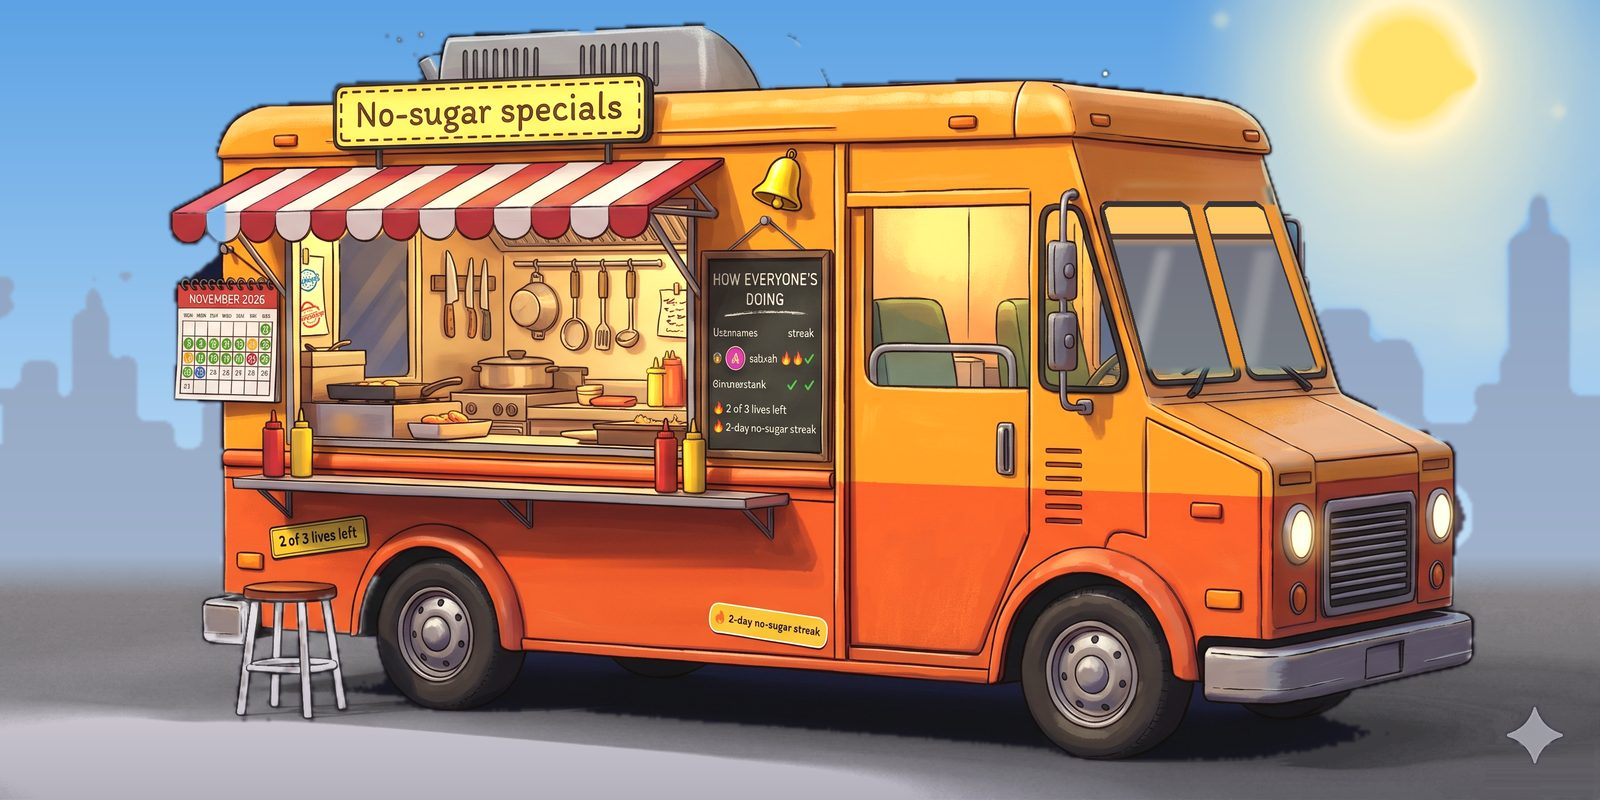
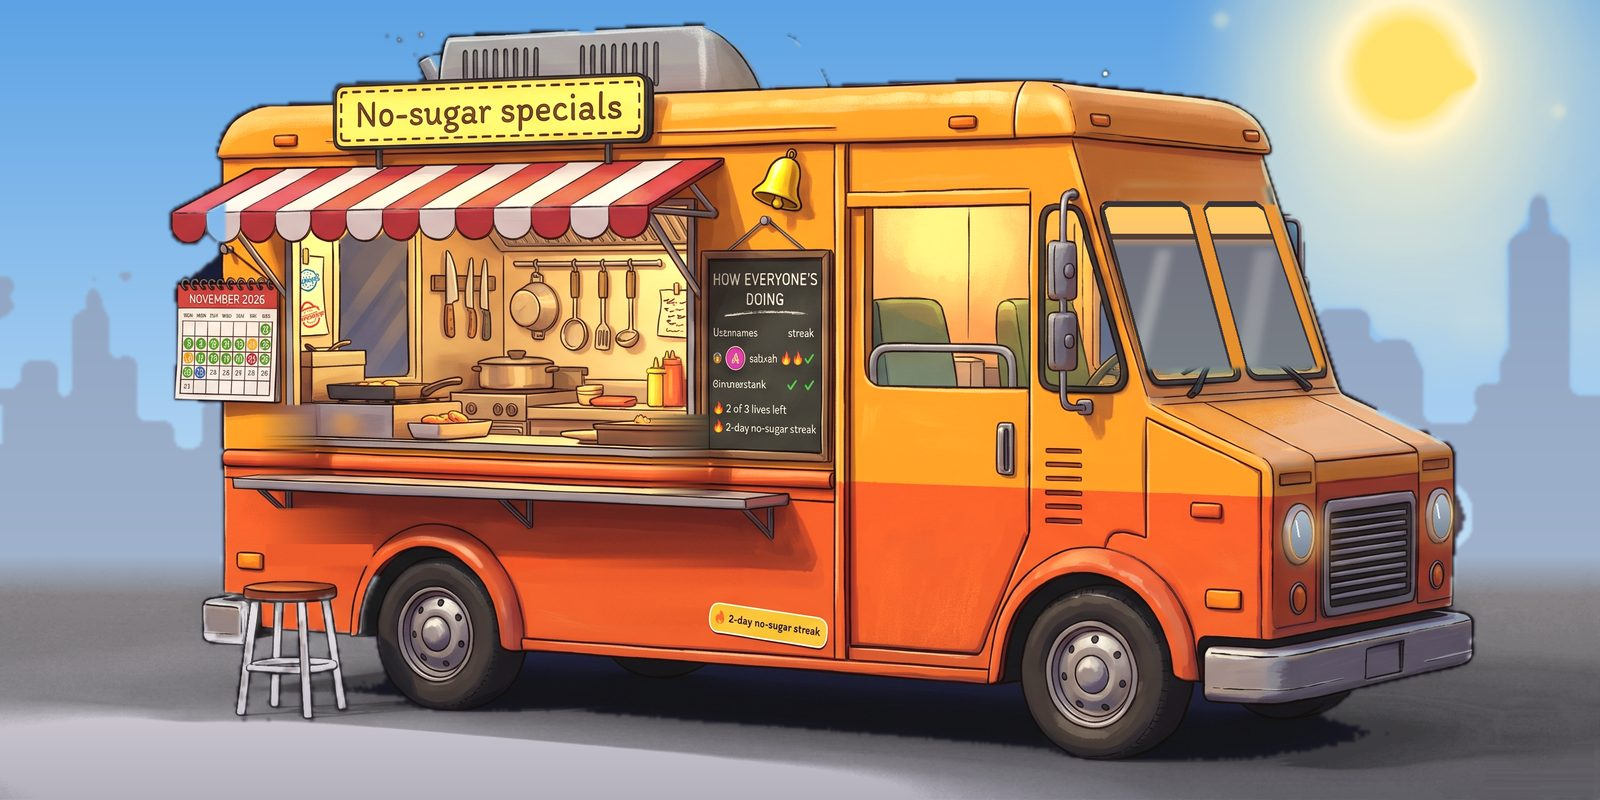
Truck rocks when touched (+ haptic tick); fuller screen; day details
- Touch the truck: only the truck rocks a tiny bit on its springs (2 px, tips toward the
  side you touched) and phones get a short buzz (Android vibrate; iOS 18+ via a hidden
  native switch). The picture is split: still background with the truck painted out
  (img/truck-bg*), the truck cut to its outline (img/truck-cut.png, alpha mask) with
  everything on it, and the stool as its own still layer (img/stool-cut.png)
- Day: vendor sits on the stool reading the paper, sauce bottles gone, headlights off,
  graffiti second line in yellow
- Lives sticker moved next to the streak sticker; painted sticker and Gemini sparkle
  painted out of the art, with a small "Art generated with Gemini AI" credit instead
- Truck fills the screen: hint line and skyline strip under it removed, no page scroll

Claude-Session: https://claude.ai/code/session_01EcGkTyjLhJFXMpRsRaSgUF

diff --git a/public/truck.css b/public/truck.css
@@ -11,7 +11,7 @@
 .scene-view {
   --night-0: #040924; --night-1: #19193f; --night-2: #1b1940;
   --chalk: #f1efe6; --sticker: #f6c938; --hud: 130 235 255;
-  width: 100vw; margin: -16px 0 0 calc(50% - 50vw); padding: 6px 0 18px;
+  width: 100vw; margin: -16px 0 0 calc(50% - 50vw); padding: 6px 0 0; min-height: calc(100svh - 81px); justify-content: center;
   background: linear-gradient(var(--night-0), var(--night-1) 55%, var(--night-2));
   color: #f4efe2; display: flex; flex-direction: column; align-items: center;
 }
@@ -19,7 +19,7 @@
 .scene-wrap { width: 100%; overflow: hidden; }
 .scene {
   position: relative; container-type: inline-size; margin: 0 auto;
-  width: min(100%, calc((100svh - 120px) * 2), 1900px); min-width: 300px; aspect-ratio: 2752 / 1376;
+  width: min(100%, calc((100svh - 92px) * 2), 1900px); min-width: 300px; aspect-ratio: 2752 / 1376;
 }
 .scene-art {
   position: absolute; inset: 0; width: 100%; height: 100%; display: block; user-select: none; -webkit-user-drag: none;
@@ -73,7 +73,6 @@
 [data-mode="day"] .ms-clouds { opacity: 1; transform: none; }
 @media (prefers-reduced-motion: reduce) { .ms-knob, .ms-knob::after, .ms-stars, .ms-clouds, #mode-toggle.mode-switch { transition: none !important; } }
 [data-mode="day"] .scene-view { background: linear-gradient(#5ca2e4, #b9dbf5 50%, #c4dff3 66%, #8c8a90 78%, #727078); color: #1c1407; }
-[data-mode="day"] .scene-hint { color: rgb(28 20 7 / .7); }
 .glow, .twinkle, .smoke { transition: opacity 1s ease; }
 [data-mode="day"] .glow, [data-mode="day"] .twinkle { opacity: 0 !important; }
 [data-mode="day"] .smoke { opacity: .5; }
@@ -102,8 +101,8 @@
     linear-gradient(#ff2e8a, #ff2e8a) 41.3% 0 / .12cqw .7cqw no-repeat,
     radial-gradient(circle at 50% 100%, #ff2e8a .15cqw, transparent .17cqw) 83% 0 / .34cqw .7cqw no-repeat,
     linear-gradient(#ff2e8a, #ff2e8a) 83.2% 0 / .12cqw .5cqw no-repeat; }
-.graffiti i { margin-top: .75cqw; font-style: normal; font-size: .98cqw; line-height: 1.1; color: #1fd1b9; rotate: 2deg;
-  -webkit-text-stroke: .05cqw #06302b; text-shadow: 0 0 .3cqw rgb(31 209 185 / .5); }
+.graffiti i { margin-top: .75cqw; font-style: normal; font-size: .98cqw; line-height: 1.1; color: #ffd23f; rotate: 2deg;
+  -webkit-text-stroke: .06cqw #3a2400; text-shadow: .08cqw .08cqw 0 #3a2400, 0 0 .3cqw rgb(255 210 63 / .45); }
 .graffiti em { margin-top: .35cqw; align-self: flex-end; font-style: normal; font-size: .8cqw; color: #2a2a2a; rotate: -8deg;
   opacity: .85; text-shadow: 0 0 .2cqw rgb(0 0 0 / .3); }
 [data-mode="day"] .day-shutter { transform: scaleY(1); }
@@ -132,6 +131,31 @@
 .twinkle i:nth-child(3) { left: 63%; top: 12%; animation-delay: -1.6s; } .twinkle i:nth-child(4) { left: 92%; top: 7%; animation-delay: -2.2s; }
 .twinkle i:nth-child(5) { left: 74%; top: 3%; animation-delay: -1.1s; }
 @keyframes twinkle { 0%, 100% { opacity: .15; scale: .6; } 50% { opacity: 1; scale: 1; } }
+
+/* touch the truck: it rocks a tiny bit on its springs, tipping toward the side you touched */
+.truck-layer { position: absolute; inset: 0; }
+/* the art is AI-made: say so in the corner (in place of the image's watermark) */
+.art-credit { position: absolute; right: 5%; bottom: 2.2%; pointer-events: none;
+  font: 600 max(.6cqw, 10px)/1 var(--font, inherit); color: rgb(244 239 226 / .55); }
+[data-mode="day"] .art-credit { color: rgb(28 20 7 / .5); }
+/* the truck picture is cut to the truck's outline (img/truck-cut.png) on top of the still
+   background (truck painted out); same edge fades as the background so they match exactly */
+.truck-layer .scene-art {
+  -webkit-mask-image: url(img/truck-cut.png), linear-gradient(90deg, transparent, #000 4%, #000 96%, transparent), linear-gradient(#000 90%, transparent);
+  -webkit-mask-size: 100% 100%; -webkit-mask-repeat: no-repeat; -webkit-mask-composite: source-in, source-in;
+  mask-image: url(img/truck-cut.png), linear-gradient(90deg, transparent, #000 4%, #000 96%, transparent), linear-gradient(#000 90%, transparent);
+  mask-size: 100% 100%; mask-repeat: no-repeat; mask-composite: intersect, intersect; }
+.stool-art { pointer-events: none;
+  -webkit-mask-image: url(img/stool-cut.png); -webkit-mask-size: 100% 100%; -webkit-mask-repeat: no-repeat;
+  mask-image: url(img/stool-cut.png); mask-size: 100% 100%; mask-repeat: no-repeat; }
+.truck-layer.jolt { transform-origin: 50% 90%; animation: truck-jolt .45s cubic-bezier(.3, .6, .4, 1); }
+@keyframes truck-jolt {
+  0% { transform: none; }
+  18% { transform: translateY(2px) rotate(var(--tilt, 0deg)); }
+  42% { transform: translateY(-1px) rotate(calc(var(--tilt, 0deg) * -.55)); }
+  68% { transform: translateY(.5px) rotate(calc(var(--tilt, 0deg) * .25)); }
+  100% { transform: none; }
+}
 
 /* ---------- Hotspots (the clickable truck parts) ---------- */
 .scene .spot, .scene .spot:hover, .scene .spot:active, .scene .spot:focus-visible {
@@ -227,7 +251,7 @@
 .scene .vendor { cursor: pointer; }
 .scene .vendor svg { width: 100%; height: 100%; display: block; overflow: visible; filter: drop-shadow(0 .2cqw .3cqw rgb(0 0 0 / .35)); }
 .scene .vendor-night { left: 21.44%; top: 36.34%; width: 7.63%; height: 17.8%; transition: opacity .6s, transform .6s; }
-.scene .vendor-day { left: 5.09%; top: 57.41%; width: 8.36%; height: 37.06%; opacity: 0; pointer-events: none; transition: opacity .6s; }
+.scene .vendor-day { left: 13.81%; top: 51.09%; width: 8.72%; height: 33.43%; opacity: 0; pointer-events: none; transition: opacity .6s; }
 [data-mode="day"] .scene .vendor-night { opacity: 0; transform: translateY(30%); pointer-events: none; }
 [data-mode="day"] .scene .vendor-day { opacity: 1; pointer-events: auto; transition-delay: .5s; }
 .vendor .v-head { transform-box: fill-box; transform-origin: 50% 90%; animation: v-bob 3.6s ease-in-out infinite; }
@@ -253,7 +277,7 @@
 .vendor-bubble::after { content: ""; position: absolute; left: 30%; top: 100%; width: .9cqw; height: .9cqw; translate: 0 -55%;
   rotate: 45deg; background: #fff; border-right: .15cqw solid #1c1407; border-bottom: .15cqw solid #1c1407; }
 .vendor-bubble.show { opacity: 1; scale: 1; }
-[data-mode="day"] .vendor-bubble { left: 9.4%; top: 52%; }
+[data-mode="day"] .vendor-bubble { left: 22.5%; top: 52%; }
 
 /* ---------- Street life ---------- */
 /* a dog trots past every so often (tap it) */
@@ -304,7 +328,7 @@
   box-shadow: .15cqw .25cqw .3cqw rgb(0 0 0 / .45); }
 .sticker::after { content: ""; position: absolute; inset: 0; border-radius: inherit; pointer-events: none;
   background: radial-gradient(circle at 20% 30%, rgb(255 255 255 / .35), transparent 40%); mix-blend-mode: soft-light; }
-.lives-sticker { left: 20%; top: 67%; min-width: 7.6cqw; min-height: 2.7cqw; rotate: -9deg; }
+.lives-sticker { left: 39.6%; top: 75.6%; min-width: 7.6cqw; min-height: 2.7cqw; rotate: -5deg; }   /* where the painted name used to be */
 .streak-sticker { left: 48.04%; top: 78.2%; min-width: 8.1cqw; min-height: 2.8cqw; rotate: 6deg; }
 .streak-sticker:has(#streak[hidden])::before { content: "🍃 fresh start"; }
 .scene .sticker .chances, .scene .sticker .streak { font: inherit; color: inherit; background: none; border: 0; padding: 0; margin: 0; box-shadow: none; }
@@ -355,7 +379,10 @@
 @keyframes balloon-inflate { from { transform: scale(0); } to { transform: none; } }
 .balloons.shake { animation: shake .55s var(--ease); }
 
-.scene-hint { margin: 10px 16px 0; font-size: .85rem; color: rgb(244 239 226 / .65); text-align: center; }
+/* the truck fills the screen: no page scroll, no skyline strip under it */
+main.wrap:has(> .scene-view:not([hidden])) { padding-bottom: 0; }
+body:has(.scene-view:not([hidden])) .ambient { display: none; }
+body:has(.scene-view:not([hidden])) { padding-bottom: 0; }
 .scene-dock { display: none; }
 
 /* ---------- Close-ups ---------- */
@@ -498,15 +525,13 @@
   .scene-wrap { overflow-x: auto; overflow-y: hidden; scrollbar-width: none; overscroll-behavior-x: contain; }
   .scene-wrap::-webkit-scrollbar { display: none; }
   .scene { width: calc(min(62svh, 520px) * 2); max-width: none; }
-  .scene-hint { font-size: .78rem; }
-  .scene-hint::before { content: "← swipe along the truck →"; display: block; font-weight: 700; color: #ffd75e; }
   .scene-dock { display: flex; gap: 8px; margin-top: 10px; }
   .closeup .closeup-close { top: 70px; right: 10px; }
 }
 
 @media (prefers-reduced-motion: reduce) {
   .balloon.alive, .scene .spot-cal, .spot-sign::after, .day-shutter, .scene-day, .smoke i, .twinkle i, .lamp, .moon, .window-glow, .ring-waves i,
-  .vendor .v-head, .vendor .v-eyes, .vendor .v-arm, .vendor-day, .walker, .dog *, .crow *, .city-lights { animation: none !important; }
+  .truck-layer.jolt, .vendor .v-head, .vendor .v-eyes, .vendor .v-arm, .vendor-day, .walker, .dog *, .crow *, .city-lights { animation: none !important; }
   .walker { display: none; }
   .closeup-item, .day-shutter, .scene-day, .vendor, .v-paper, .v-arm { transition: none !important; }
 }

diff --git a/public/index.html b/public/index.html
@@ -118,64 +118,80 @@
     <section id="app-view" class="scene-view" hidden>
       <div class="scene-wrap" id="scene-wrap">
         <div class="scene" id="truck">
-          <img class="scene-art" src="img/truck-toon-1600.jpg"
-               srcset="img/truck-toon-1600.jpg 1600w, img/truck-toon.jpg 2752w"
-               sizes="(max-width: 700px) 1100px, 100vw" width="2752" height="1376"
-               alt="Your food truck, parked at night" />
-          <img class="scene-art scene-day" src="img/truck-toon-day-1600.jpg"
-               srcset="img/truck-toon-day-1600.jpg 1600w, img/truck-toon-day.jpg 2752w"
-               sizes="(max-width: 700px) 1100px, 100vw" width="2752" height="1376" loading="lazy"
-               alt="" aria-hidden="true" />
-          <span class="glow window-glow" aria-hidden="true"></span>
+          <!-- Still background: the same picture with the truck painted out (only seen in the
+               tiny gaps while the truck rocks) -->
+          <img class="scene-art scene-bg" src="img/truck-bg-1600.jpg"
+               srcset="img/truck-bg-1600.jpg 1600w, img/truck-bg.jpg 2752w"
+               sizes="(max-width: 700px) 1100px, 100vw" width="2752" height="1376" alt="" aria-hidden="true" />
+          <img class="scene-art scene-bg scene-day" src="img/truck-bg-day-1600.jpg"
+               srcset="img/truck-bg-day-1600.jpg 1600w, img/truck-bg-day.jpg 2752w"
+               sizes="(max-width: 700px) 1100px, 100vw" width="2752" height="1376" loading="lazy" alt="" aria-hidden="true" />
           <span class="glow moon" aria-hidden="true"></span>
-          <span class="glow lamp l1" aria-hidden="true"></span><span class="glow lamp l2" aria-hidden="true"></span>
-          <span class="smoke" aria-hidden="true"><i></i><i></i><i></i></span>
-          <!-- Daytime: the truck only serves at night, so the shutter is down -->
-          <span class="day-shutter" aria-hidden="true">
-            <span class="graffiti"><b>NO SPOILERS!</b><i>today's sugar story drops tomorrow</i><em>✗ no peeking</em></span>
-          </span>
+
+          <!-- The truck: the picture cut to the truck's outline, plus everything attached to it.
+               Only this layer rocks when you touch the truck. -->
+          <div class="truck-layer" id="truck-layer">
+            <img class="scene-art" src="img/truck-toon-1600.jpg"
+                 srcset="img/truck-toon-1600.jpg 1600w, img/truck-toon.jpg 2752w"
+                 sizes="(max-width: 700px) 1100px, 100vw" width="2752" height="1376"
+                 alt="Your food truck, parked at night" />
+            <img class="scene-art scene-day" src="img/truck-toon-day-1600.jpg"
+                 srcset="img/truck-toon-day-1600.jpg 1600w, img/truck-toon-day.jpg 2752w"
+                 sizes="(max-width: 700px) 1100px, 100vw" width="2752" height="1376" loading="lazy"
+                 alt="" aria-hidden="true" />
+            <span class="glow window-glow" aria-hidden="true"></span>
+            <span class="glow lamp l1" aria-hidden="true"></span><span class="glow lamp l2" aria-hidden="true"></span>
+            <!-- Daytime: the truck only serves at night, so the shutter is down -->
+            <span class="day-shutter" aria-hidden="true">
+              <span class="graffiti"><b>NO SPOILERS!</b><i>today's sugar story drops tomorrow</i><em>✗ no peeking</em></span>
+            </span>
+
+            <!-- Lives: app.js still renders hearts here for screen readers; the sticker shows them on the truck -->
+            <div id="hearts" class="balloons" aria-live="polite"></div>
+
+            <!-- Roof sign: tap for a no-added-sugar treat idea -->
+            <button class="spot spot-sign" id="spot-sign" type="button" data-open="special" aria-label="See today's no-sugar special">
+              <span class="spot-tag">Today's special ✨</span>
+            </button>
+
+            <!-- Paper calendar hanging off the awning -->
+            <button class="spot spot-cal" id="spot-cal" type="button" data-open="cal" aria-label="Open your calendar">
+              <span class="paper" id="mini-cal">
+                <span class="paper-head" id="mini-month"></span>
+                <span class="paper-grid" id="mini-days"></span>
+              </span>
+              <span class="spot-tag">Calendar</span>
+            </button>
+
+            <!-- Chalkboard next to the serving window -->
+            <button class="spot spot-board" id="spot-board" type="button" data-open="board" aria-label="Open the leaderboard">
+              <span class="chalk">
+                <span class="chalk-title">How everyone's doing</span>
+                <span class="chalk-rows" id="mini-board"></span>
+              </span>
+              <span class="spot-tag">Leaderboard</span>
+            </button>
+
+            <!-- Service bell: rings when a message comes in -->
+            <button class="spot spot-bell" id="bell" type="button" aria-label="New messages — open the chat">
+              <span class="ring-waves" aria-hidden="true"><i></i><i></i></span>
+              <b id="bell-count" class="bell-count" hidden></b>
+            </button>
+
+            <!-- Stickers on the truck body -->
+            <span class="sticker lives-sticker"><span id="chances" class="chances"></span></span>
+            <span class="sticker streak-sticker"><span id="streak" class="streak" hidden></span></span>
+            <span class="closed-plank" aria-hidden="true">CLOSED</span>
+          </div>
+          <!-- The stool stands on the street, not on the truck: a still copy of it sits on top -->
+          <img class="scene-art stool-art" src="img/truck-toon-1600.jpg" alt="" aria-hidden="true" />
+          <img class="scene-art stool-art scene-day" src="img/truck-toon-day-1600.jpg" loading="lazy" alt="" aria-hidden="true" />
           <span class="twinkle" aria-hidden="true"><i></i><i></i><i></i><i></i><i></i></span>
+          <span class="smoke" aria-hidden="true"><i></i><i></i><i></i></span>
 
-          <!-- Lives: app.js still renders hearts here for screen readers; the sticker shows them on the truck -->
-          <div id="hearts" class="balloons" aria-live="polite"></div>
-
-          <!-- Roof sign: tap for a no-added-sugar treat idea -->
-          <button class="spot spot-sign" id="spot-sign" type="button" data-open="special" aria-label="See today's no-sugar special">
-            <span class="spot-tag">Today's special ✨</span>
-          </button>
-
-          <!-- Paper calendar hanging off the awning -->
-          <button class="spot spot-cal" id="spot-cal" type="button" data-open="cal" aria-label="Open your calendar">
-            <span class="paper" id="mini-cal">
-              <span class="paper-head" id="mini-month"></span>
-              <span class="paper-grid" id="mini-days"></span>
-            </span>
-            <span class="spot-tag">Calendar</span>
-          </button>
-
-          <!-- Chalkboard next to the serving window -->
-          <button class="spot spot-board" id="spot-board" type="button" data-open="board" aria-label="Open the leaderboard">
-            <span class="chalk">
-              <span class="chalk-title">How everyone's doing</span>
-              <span class="chalk-rows" id="mini-board"></span>
-            </span>
-            <span class="spot-tag">Leaderboard</span>
-          </button>
-
-          <!-- Service bell: rings when a message comes in -->
-          <button class="spot spot-bell" id="bell" type="button" aria-label="New messages — open the chat">
-            <span class="ring-waves" aria-hidden="true"><i></i><i></i></span>
-            <b id="bell-count" class="bell-count" hidden></b>
-          </button>
-
-          <!-- Stickers on the truck body -->
-          <span class="sticker lives-sticker"><span id="chances" class="chances"></span></span>
-          <span class="sticker streak-sticker"><span id="streak" class="streak" hidden></span></span>
-          <span class="closed-plank" aria-hidden="true">CLOSED</span>
-
+          <span class="art-credit">Art generated with Gemini AI</span>
         </div>
       </div>
-      <p class="scene-hint" aria-hidden="true">Tap the calendar, the chalkboard or the sign · talk to the vendor to chat</p>
       <nav class="scene-dock" aria-label="Truck parts">
         <button type="button" class="secondary small" data-open="cal">📅 Calendar</button>
         <button type="button" class="secondary small" data-open="board">🏆 Board</button>

diff --git a/public/street.js b/public/street.js
@@ -48,16 +48,19 @@ function vendorNight() {
   </svg>`;
 }
 
-/** Day: shutter's down, he's standing by the truck reading the paper. 230×510. */
+/** Day: shutter's down, he's sitting on the stool reading the paper. 240×460 = picture pixels;
+ *  the seat of the painted stool is at y=300. */
 function vendorDay() {
-  return `<svg viewBox="0 0 230 510" aria-hidden="true">
-    <path d="M86 330 L80 470 L108 470 L114 340 Z M144 330 L150 470 L122 470 L116 340 Z" fill="#2f3b63" stroke="${INK}" stroke-width="3.5" stroke-linejoin="round"/>
-    <ellipse cx="88" cy="482" rx="26" ry="12" fill="#6b3f1f" stroke="${INK}" stroke-width="3"/>
-    <ellipse cx="144" cy="482" rx="26" ry="12" fill="#6b3f1f" stroke="${INK}" stroke-width="3"/>
-    <path d="M58 340 C56 250 74 214 115 214 C156 214 174 250 172 340 Z" fill="#1f8f84" stroke="${INK}" stroke-width="3.5"/>
-    <rect x="103" y="170" width="24" height="30" fill="${SKIN}" stroke="${INK}" stroke-width="3"/>
-    ${head(115, 140)}
-    <g class="v-paper">
+  return `<svg viewBox="0 0 240 460" aria-hidden="true">
+    <path d="M76 318 L72 432 L102 432 L106 318 Z M164 318 L168 432 L138 432 L134 318 Z" fill="#2f3b63" stroke="${INK}" stroke-width="3.5" stroke-linejoin="round"/>
+    <ellipse cx="80" cy="440" rx="26" ry="11" fill="#6b3f1f" stroke="${INK}" stroke-width="3"/>
+    <ellipse cx="160" cy="440" rx="26" ry="11" fill="#6b3f1f" stroke="${INK}" stroke-width="3"/>
+    <path d="M60 300 C58 200 76 150 120 150 C164 150 182 200 180 300 Z" fill="#1f8f84" stroke="${INK}" stroke-width="3.5"/>
+    <rect x="62" y="282" width="56" height="44" rx="20" fill="#2f3b63" stroke="${INK}" stroke-width="3.5"/>
+    <rect x="122" y="282" width="56" height="44" rx="20" fill="#2f3b63" stroke="${INK}" stroke-width="3.5"/>
+    <rect x="108" y="120" width="24" height="34" fill="${SKIN}" stroke="${INK}" stroke-width="3"/>
+    ${head(120, 92)}
+    <g class="v-paper"><g transform="translate(5 -48)">
       <g transform="rotate(-4 115 250)">
         <rect x="12" y="160" width="206" height="176" rx="3" fill="#f4f0e4" stroke="${INK}" stroke-width="3.5"/>
         <path d="M115 162 V334" stroke="#cfc8b6" stroke-width="2"/>
@@ -75,10 +78,10 @@ function vendorDay() {
         <text x="164" y="248" font-size="15" font-family="Baloo 2, sans-serif" fill="${INK}">9</text>
         <rect x="128" y="266" width="78" height="4" fill="#9a927f"/><rect x="128" y="276" width="70" height="4" fill="#9a927f"/>
         <rect x="128" y="286" width="78" height="4" fill="#9a927f"/><rect x="128" y="296" width="62" height="4" fill="#9a927f"/>
-      </g>
+      </g></g>
       <circle cx="16" cy="244" r="13" fill="${SKIN}" stroke="${INK}" stroke-width="3"/>
       <circle cx="214" cy="232" r="13" fill="${SKIN}" stroke="${INK}" stroke-width="3"/>
-    </g>
+    </g></g>
   </svg>`;
 }
 
@@ -118,15 +121,18 @@ function crow() {
 
 /** Put the street life on the scene. Returns the elements the truck code wires up. */
 export function buildStreet(scene) {
-  const html = `
-    <img class="city-lights" src="img/city-lights.png" alt="" aria-hidden="true" />
+  const layer = scene.querySelector(".truck-layer") || scene;
+  // on the truck (rocks with it): the vendor in the window, the crow on the roof sign
+  layer.insertAdjacentHTML("beforeend", `
     <button class="spot vendor vendor-night" type="button" aria-label="Talk to the vendor — open the chat">${vendorNight()}</button>
+    <button class="crow" type="button" tabindex="-1" aria-hidden="true">${crow()}</button>`);
+  // on the street (stays still): the vendor on his stool in the day, his bubble, the dog
+  scene.insertAdjacentHTML("beforeend", `
     <button class="spot vendor vendor-day" type="button" aria-label="Talk to the vendor — open the chat">${vendorDay()}</button>
     <span class="vendor-bubble" aria-hidden="true"></span>
+    <img class="city-lights" src="img/city-lights.png" alt="" aria-hidden="true" />
     <span class="walker" aria-hidden="true"><button class="dog" type="button" tabindex="-1">${dog()}</button></span>
-    <button class="crow" type="button" tabindex="-1" aria-hidden="true">${crow()}</button>
-    <span class="critter-bubble" aria-hidden="true"></span>`;
-  scene.insertAdjacentHTML("beforeend", html);
+    <span class="critter-bubble" aria-hidden="true"></span>`);
   return {
     vendors: [...scene.querySelectorAll(".vendor")],
     bubble: scene.querySelector(".vendor-bubble"),

diff --git a/public/truck.js b/public/truck.js
@@ -23,6 +23,7 @@ export function mountTruck() {
   mirrorCalendar();
   mirrorBoard();
   mountSpecials();
+  mountTouch();
   startPanned();
 }
 
@@ -198,6 +199,65 @@ function mountSpecials() {
     showSpecial(specialAt + 1);
     if (!reduceMotion) replay($("menu-card"), "swap");
   });
+}
+
+// ---------- Touch the truck: a tiny suspension wobble + a haptic tick ----------
+// Only the truck reacts (not the sky or the street): img/truck-mask.png is white where the truck is.
+function mountTouch() {
+  const scene = $("truck");
+  if (!scene) return;
+  let mask = null;
+  const img = new Image();
+  img.onload = () => {
+    const c = document.createElement("canvas");
+    c.width = img.width; c.height = img.height;
+    const ctx = c.getContext("2d", { willReadFrequently: true });
+    ctx.drawImage(img, 0, 0);
+    mask = { w: c.width, h: c.height, d: ctx.getImageData(0, 0, c.width, c.height).data };
+  };
+  img.src = "img/truck-mask.png";
+
+  const onTruck = (e) => {
+    if (e.target.closest(".spot, .vendor, .dog, .crow, .sticker, .day-shutter")) return true;
+    if (!mask) return false;
+    const r = scene.getBoundingClientRect();
+    const x = Math.floor(((e.clientX - r.left) / r.width) * mask.w);
+    const y = Math.floor(((e.clientY - r.top) / r.height) * mask.h);
+    if (x < 0 || y < 0 || x >= mask.w || y >= mask.h) return false;
+    return mask.d[(y * mask.w + x) * 4] > 127;
+  };
+
+  // Phones only allow vibration from a finished tap (finger lifted), so the buzz goes on "click";
+  // the wobble starts right away on touch-down.
+  let touchedTruck = false;
+  scene.addEventListener("click", () => { if (touchedTruck) { touchedTruck = false; haptic(); } });
+  scene.addEventListener("pointerdown", (e) => {
+    touchedTruck = onTruck(e);
+    if (!touchedTruck || reduceMotion) return;
+    const r = scene.getBoundingClientRect();
+    const side = (e.clientX - r.left) / r.width - 0.5;          // touched left or right of centre
+    const layer = $("truck-layer") || scene;
+    layer.style.setProperty("--tilt", `${(side * 0.7).toFixed(3)}deg`);
+    replay(layer, "jolt");
+  });
+}
+
+// A short buzz. Android: the vibration API. iPhone Safari has no vibration API, but flipping a
+// native on/off switch gives a light tap (iOS 18+), so we keep a hidden one and flip it.
+let hapticSwitch = null;
+function haptic() {
+  if (typeof navigator.vibrate === "function" && /Android/i.test(navigator.userAgent)) { navigator.vibrate(12); return; }
+  if (!/iPhone|iPad|iPod/i.test(navigator.userAgent)) return;
+  if (!hapticSwitch) {
+    hapticSwitch = document.createElement("label");
+    hapticSwitch.setAttribute("aria-hidden", "true");
+    hapticSwitch.style.cssText = "position:fixed;left:-9999px;top:0;opacity:0;pointer-events:none";
+    const input = Object.assign(document.createElement("input"), { type: "checkbox", tabIndex: -1 });
+    input.setAttribute("switch", "");
+    hapticSwitch.append(input);
+    document.body.append(hapticSwitch);
+  }
+  hapticSwitch.click();
 }
 
 // ---------- Paper calendar on the truck mirrors the real one ----------
